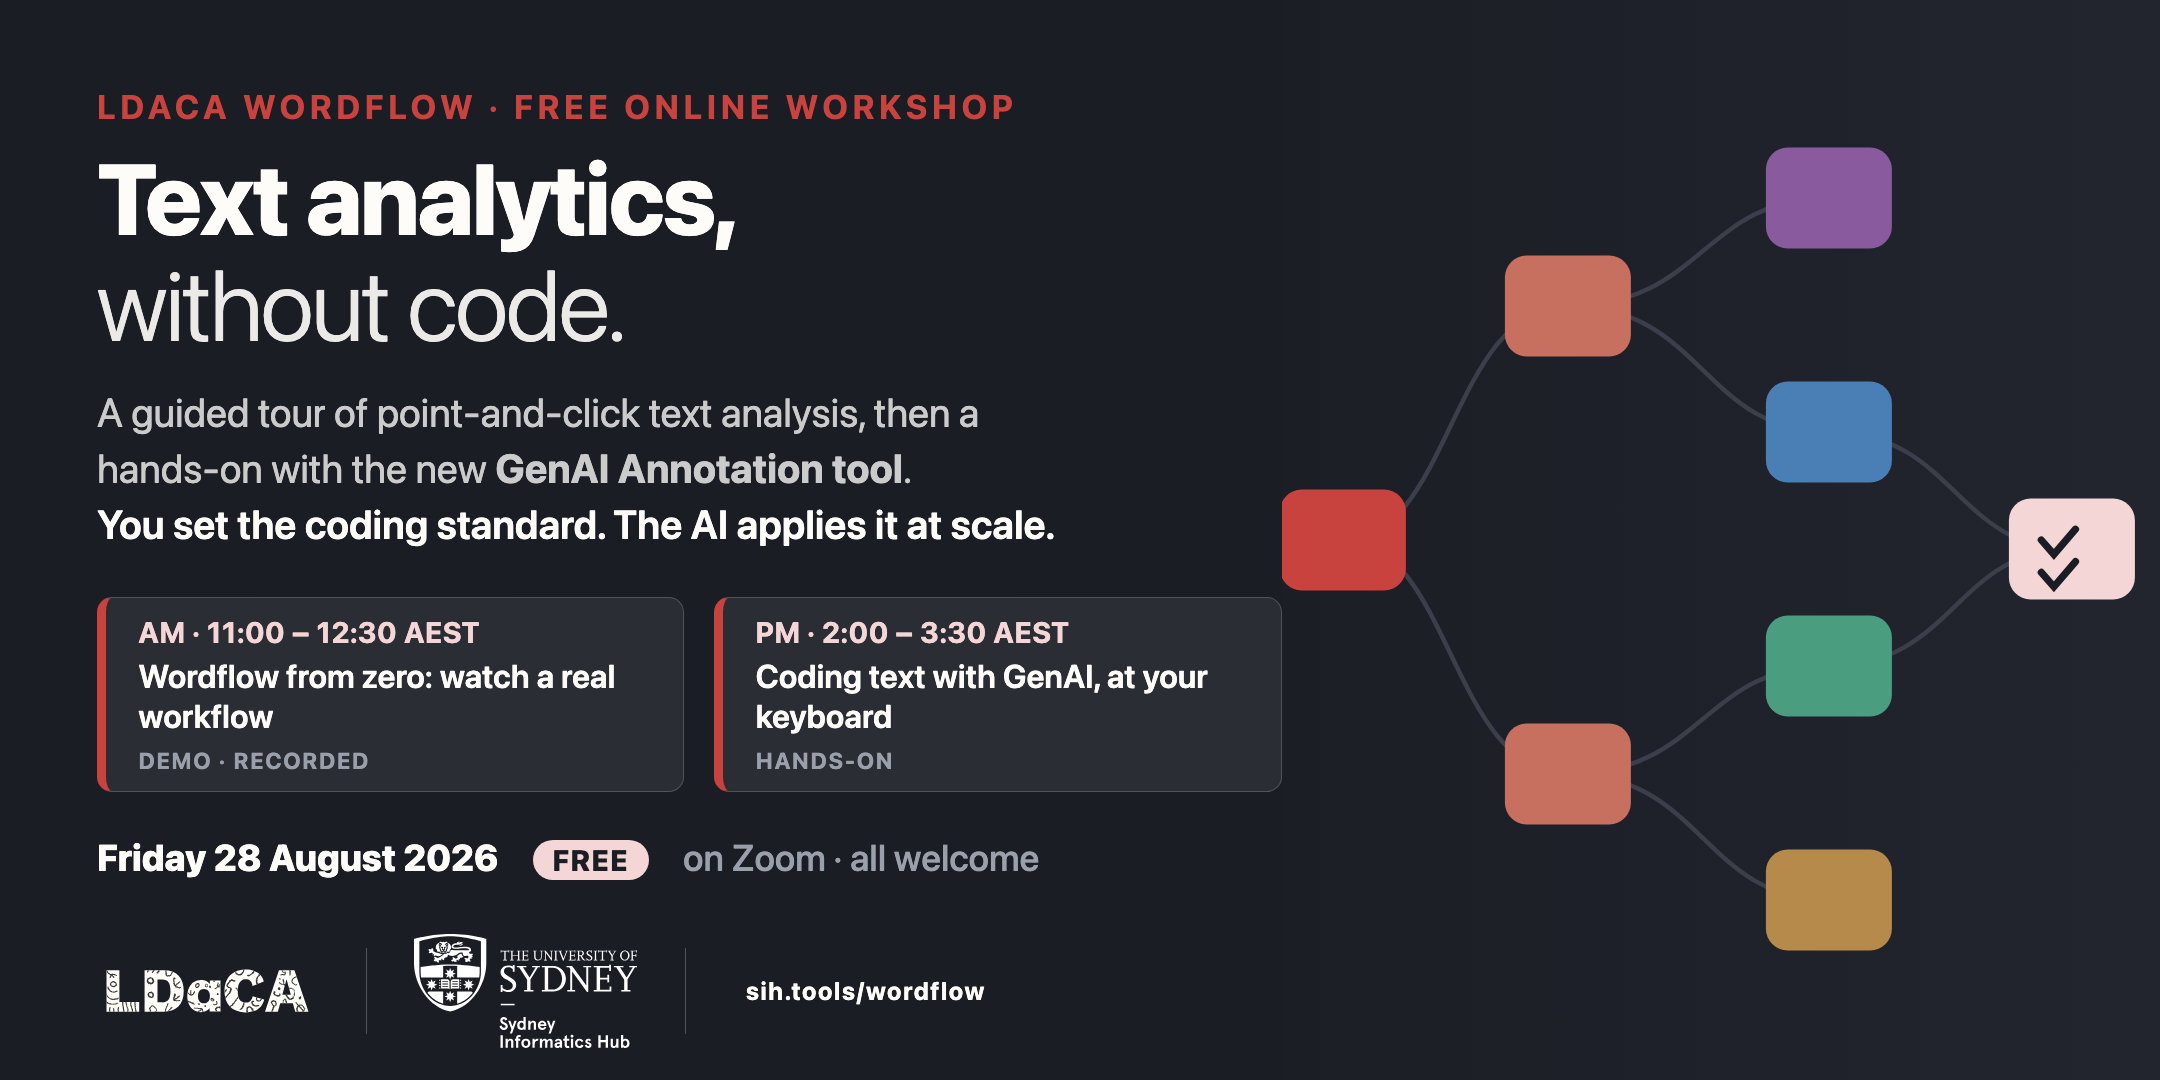
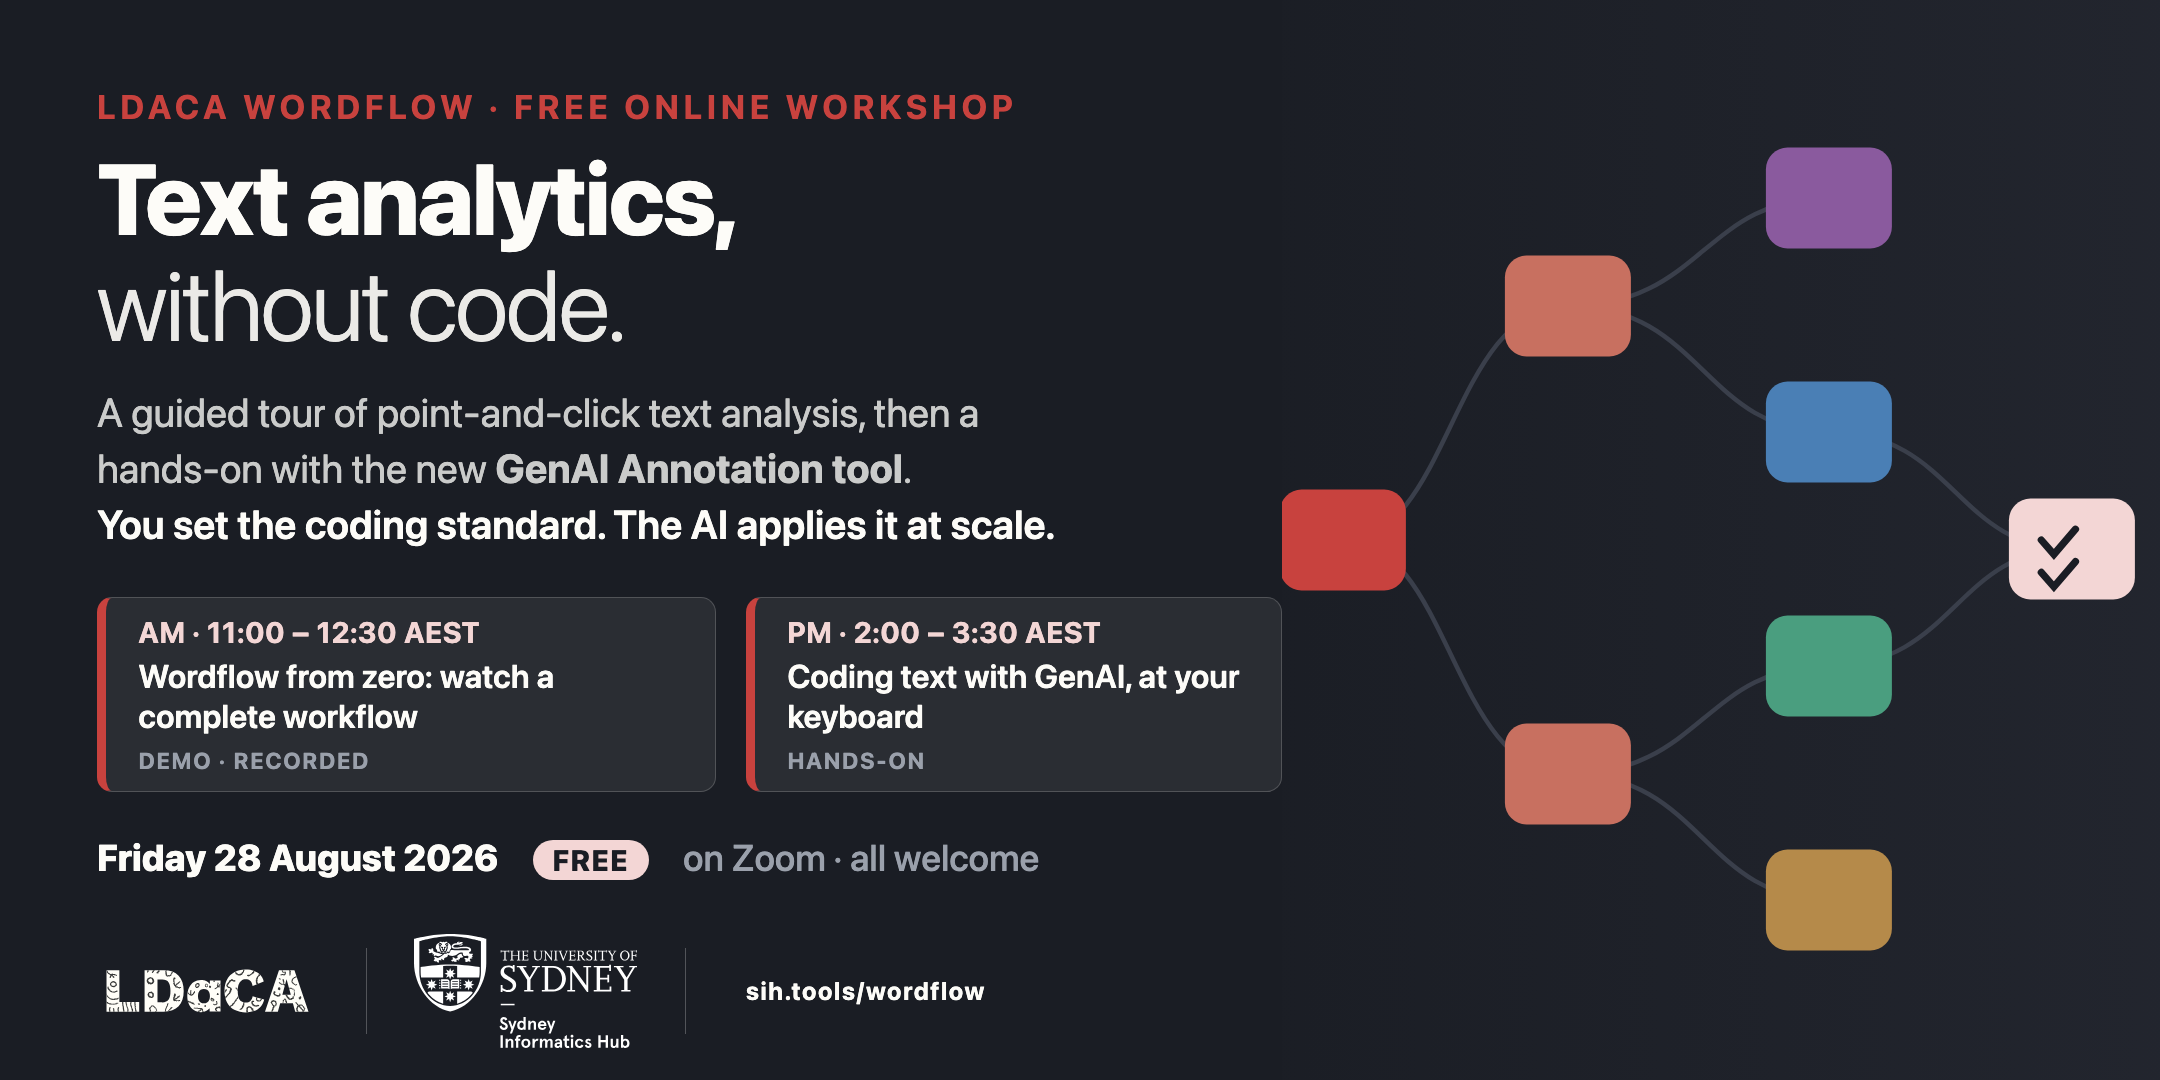
Eventbrite post accuracy pass from Chao's review
Drop the double 'free/code-free'; call the demo a worked-example
workflow (it is constructed, not live research); link 'June workshop'
to the landing page's new #workshops anchor and scope it to in-person
attendees; morning needs only the Zoom meeting (no browser claim);
replace bring-your-own-data with repeat-on-your-own-data-afterwards
(no online support for divergent datasets mid-session). Banner card
now says 'watch a complete workflow'; PNGs re-rendered, including the
date-prefixed newsletter send copy.

Changed region(s): [[0.3102, 0.55, 0.5894, 0.7333], [0.062, 0.6417, 0.1861, 0.6722], [0.2481, 0.6111, 0.2792, 0.6417]]

diff --git a/communications/promo-blurbs-online.html b/communications/promo-blurbs-online.html
@@ -26,12 +26,12 @@
   </div>
   <div style="max-width:640px; margin:0 auto 36px; background:#ffffff; padding:32px 36px; border-radius:10px; border:1px solid #e5e7eb; font-family:-apple-system,'Segoe UI',Roboto,Helvetica,Arial,sans-serif; font-size:15px; line-height:1.6; color:#1f2933;">
 
-    <p style="margin:0 0 16px;">Working with interviews, social media, news articles, or any other text corpus, but not with Python or R? <strong>LDaCA Wordflow</strong> is a free, code-free text analytics app built for exactly that: concordance, word frequency, trends, topic modelling, quotation extraction, and now <strong>GenAI-assisted annotation</strong>, all point-and-click, with your data visible at every step.</p>
+    <p style="margin:0 0 16px;">Working with interviews, social media, news articles, or any other text corpus, but not with Python or R? <strong>LDaCA Wordflow</strong> is a free text analytics app built for exactly that, no code required: concordance, word frequency, trends, topic modelling, quotation extraction, and now <strong>GenAI-assisted annotation</strong>, all point-and-click, with your data visible at every step.</p>
 
     <p style="margin:0 0 16px;">This online workshop runs as <strong>two 90-minute Zoom sessions</strong>; attend either half or both.</p>
 
     <h2 style="font-size:18px; font-weight:600; color:#1a56db; margin:28px 0 8px;">Session 1 · Wordflow from zero, 11:00 am – 12:30 pm AEST <span style="font-weight:400; color:#6b7280; font-size:15px;">(10:30 am ACST · 9:00 am AWST)</span></h2>
-    <p style="margin:0 0 16px;">A guided tour, no hands-on and nothing to install: the concepts, the interface, and a real research workflow built live: from raw election tweets to a small empirical finding, across four analysis tools. This session is <strong>recorded</strong>, so you can revisit it any time. If you attended our June workshop, you may prefer to join for the afternoon only.</p>
+    <p style="margin:0 0 16px;">A guided tour, no hands-on and nothing to install: the concepts, the interface, and a worked-example research workflow built live, from raw election tweets to a small finding, across four analysis tools. This session is <strong>recorded</strong>, so you can revisit it any time. If you attended our <a href="https://milysun.github.io/wordflow-workshop/#workshops" style="color:#2563eb; text-decoration:underline;">June workshop</a> in person, you may prefer to join for the afternoon only.</p>
 
     <h2 style="font-size:18px; font-weight:600; color:#1a56db; margin:28px 0 8px;">Session 2 · Hands-on: coding text with GenAI, 2:00 – 3:30 pm AEST <span style="font-weight:400; color:#6b7280; font-size:15px;">(1:30 pm ACST · 12:00 pm AWST)</span></h2>
     <p style="margin:0 0 16px;">At your own keyboard, you'll use Wordflow's new <strong>Annotation</strong> tool the researcher-first way: you code a sample and define the codebook; the AI must match your expectation (agreement scores, a confusion matrix, targeted revisions to your codebook and prompt) before it earns the corpus; then it annotates at scale. This session is deliberately <strong>not recorded</strong>, so it can run at the room's pace. To take part you'll need the free desktop app installed and a free AI-provider API key; a registration email a week beforehand walks you through both (about 10 minutes; zero cost).</p>
@@ -40,7 +40,7 @@
     <p style="margin:0 0 16px;">HDR students to senior academics, in any field where text is data. No coding experience needed. That's the point. Built for Australian researchers, but free and open to everyone; international colleagues are warmly welcome (session times are AEST; the desktop app works anywhere).</p>
 
     <h2 style="font-size:18px; font-weight:600; color:#1a56db; margin:28px 0 8px;">What you need</h2>
-    <p style="margin:0 0 16px;">A laptop and a browser for the morning; the two small setup steps above for the afternoon. Optionally, bring a small text dataset (CSV) and a classification question you care about.</p>
+    <p style="margin:0 0 16px;">Just the Zoom meeting for the morning, from any device. For the afternoon: a laptop or desktop and the two small setup steps above. The hands-on uses a prepared sample dataset so the whole room stays on the same steps; the materials are yours to keep, so you can repeat the exercise on your own data and coding question afterwards, at your own pace.</p>
 
     <p style="margin:0 0 16px;">Wordflow is developed at the University of Sydney (Sydney Informatics Hub and Sydney Corpus Lab) as part of the <strong>Language Data Commons of Australia (LDaCA)</strong>, an ARDC co-investment partnership enabled by NCRIS.</p>
 
@@ -57,7 +57,7 @@
     <strong style="color:#374151;">Section title:</strong> Teach the AI your codebook: free Wordflow workshop, 28 August
   </div>
   <div style="max-width:640px; margin:0 auto 36px; background:#ffffff; padding:32px 36px; border-radius:10px; border:1px solid #e5e7eb; font-family:-apple-system,'Segoe UI',Roboto,Helvetica,Arial,sans-serif; font-size:15px; line-height:1.6; color:#1f2933;">
-    <p style="margin:0;"><strong>Text analytics without code, including GenAI text coding (online, 28 August).</strong> Do you work with text (interviews, social media, news, archives) but not with Python or R? Join us on <strong>Friday 28 August</strong> for a free online workshop on <strong>LDaCA Wordflow</strong>, a point-and-click text analytics app from the Language Data Commons of Australia. The morning session (<strong>11:00 am – 12:30 pm AEST</strong>; 9:00 am in the west) is a watch-only tour: concepts, interface, and a real research workflow built live, recorded for later viewing. After lunch (<strong>2:00 – 3:30 pm AEST</strong>), a hands-on session introduces Wordflow's new <strong>Annotation</strong> tool. You code a sample and define the codebook; the AI must match your expectation before it earns the corpus; then it annotates at scale. Attend either session or both; no coding experience required. Register at <span style="background:#fef3c7; padding:0 4px; border-radius:3px;">⟨Eventbrite link⟩</span>.</p>
+    <p style="margin:0;"><strong>Text analytics without code, including GenAI text coding (online, 28 August).</strong> Do you work with text (interviews, social media, news, archives) but not with Python or R? Join us on <strong>Friday 28 August</strong> for a free online workshop on <strong>LDaCA Wordflow</strong>, a point-and-click text analytics app from the Language Data Commons of Australia. The morning session (<strong>11:00 am – 12:30 pm AEST</strong>; 9:00 am in the west) is a watch-only tour: concepts, interface, and a worked-example research workflow built live, recorded for later viewing. After lunch (<strong>2:00 – 3:30 pm AEST</strong>), a hands-on session introduces Wordflow's new <strong>Annotation</strong> tool. You code a sample and define the codebook; the AI must match your expectation before it earns the corpus; then it annotates at scale. Attend either session or both; no coding experience required. Register at <span style="background:#fef3c7; padding:0 4px; border-radius:3px;">⟨Eventbrite link⟩</span>.</p>
   </div>
 
   <!-- ============================================================= -->

diff --git a/communications/images/banner-source.html b/communications/images/banner-source.html
@@ -138,7 +138,7 @@
     <div class="sessions">
       <div class="session">
         <div class="when">AM · 11:00 – 12:30 AEST</div>
-        <div class="what">Wordflow from zero: watch a real workflow</div>
+        <div class="what">Wordflow from zero: watch a complete workflow</div>
         <div class="tag">Demo · Recorded</div>
       </div>
       <div class="session">

diff --git a/communications/promo-blurbs-online.md b/communications/promo-blurbs-online.md
@@ -13,19 +13,19 @@ A free one-day online workshop for researchers who work with text. Morning: see 
 
 **Description:**
 
-Working with interviews, social media, news articles, or any other text corpus, but not with Python or R? **LDaCA Wordflow** is a free, code-free text analytics app built for exactly that: concordance, word frequency, trends, topic modelling, quotation extraction, and now **GenAI-assisted annotation**, all point-and-click, with your data visible at every step.
+Working with interviews, social media, news articles, or any other text corpus, but not with Python or R? **LDaCA Wordflow** is a free text analytics app built for exactly that, no code required: concordance, word frequency, trends, topic modelling, quotation extraction, and now **GenAI-assisted annotation**, all point-and-click, with your data visible at every step.
 
 This online workshop runs as **two 90-minute Zoom sessions**; attend either half or both.
 
 **Session 1 · Wordflow from zero, 11:00 am – 12:30 pm AEST** *(10:30 am ACST · 9:00 am AWST)*
-A guided tour, no hands-on and nothing to install: the concepts, the interface, and a real research workflow built live: from raw election tweets to a small empirical finding, across four analysis tools. This session is **recorded**, so you can revisit it any time. If you attended our June workshop, you may prefer to join for the afternoon only.
+A guided tour, no hands-on and nothing to install: the concepts, the interface, and a worked-example research workflow built live, from raw election tweets to a small finding, across four analysis tools. This session is **recorded**, so you can revisit it any time. If you attended our [June workshop](https://milysun.github.io/wordflow-workshop/#workshops) in person, you may prefer to join for the afternoon only.
 
 **Session 2 · Hands-on: coding text with GenAI, 2:00 – 3:30 pm AEST** *(1:30 pm ACST · 12:00 pm AWST)*
 At your own keyboard, you'll use Wordflow's new **Annotation** tool the researcher-first way: you code a sample and define the codebook; the AI must match your expectation (agreement scores, a confusion matrix, targeted revisions to your codebook and prompt) before it earns the corpus; then it annotates at scale. This session is deliberately **not recorded**, so it can run at the room's pace. To take part you'll need the free desktop app installed and a free AI-provider API key; a registration email a week beforehand walks you through both (about 10 minutes; zero cost).
 
 **Who it's for:** HDR students to senior academics, in any field where text is data. No coding experience needed. That's the point. Built for Australian researchers, but free and open to everyone; international colleagues are warmly welcome (session times are AEST; the desktop app works anywhere).
 
-**What you need:** a laptop and a browser for the morning; the two small setup steps above for the afternoon. Optionally, bring a small text dataset (CSV) and a classification question you care about.
+**What you need:** just the Zoom meeting for the morning, from any device. For the afternoon: a laptop or desktop and the two small setup steps above. The hands-on uses a prepared sample dataset so the whole room stays on the same steps; the materials are yours to keep, so you can repeat the exercise on your own data and coding question afterwards, at your own pace.
 
 Wordflow is developed at the University of Sydney (Sydney Informatics Hub and Sydney Corpus Lab) as part of the **Language Data Commons of Australia (LDaCA)**, an ARDC co-investment partnership enabled by NCRIS.
 
@@ -37,7 +37,7 @@ Wordflow is developed at the University of Sydney (Sydney Informatics Hub and Sy
 
 **Section title:** Teach the AI your codebook: free Wordflow workshop, 28 August
 
-**Text analytics without code, including GenAI text coding (online, 28 August).** Do you work with text (interviews, social media, news, archives) but not with Python or R? Join us on **Friday 28 August** for a free online workshop on **LDaCA Wordflow**, a point-and-click text analytics app from the Language Data Commons of Australia. The morning session (**11:00 am – 12:30 pm AEST**; 9:00 am in the west) is a watch-only tour: concepts, interface, and a real research workflow built live, recorded for later viewing. After lunch (**2:00 – 3:30 pm AEST**), a hands-on session introduces Wordflow's new **Annotation** tool. You code a sample and define the codebook; the AI must match your expectation before it earns the corpus; then it annotates at scale. Attend either session or both; no coding experience required. Register at ⟨Eventbrite link⟩.
+**Text analytics without code, including GenAI text coding (online, 28 August).** Do you work with text (interviews, social media, news, archives) but not with Python or R? Join us on **Friday 28 August** for a free online workshop on **LDaCA Wordflow**, a point-and-click text analytics app from the Language Data Commons of Australia. The morning session (**11:00 am – 12:30 pm AEST**; 9:00 am in the west) is a watch-only tour: concepts, interface, and a worked-example research workflow built live, recorded for later viewing. After lunch (**2:00 – 3:30 pm AEST**), a hands-on session introduces Wordflow's new **Annotation** tool. You code a sample and define the codebook; the AI must match your expectation before it earns the corpus; then it annotates at scale. Attend either session or both; no coding experience required. Register at ⟨Eventbrite link⟩.
 
 ---
 
